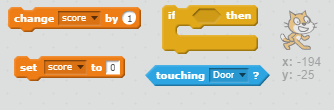
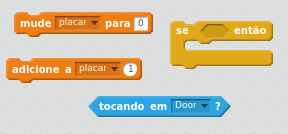
passo 7 texto e imagem parcialmente traduzidos e ajustes passo 6

diff --git a/pt-br/step_7.md b/pt-br/step_7.md
@@ -1,26 +1,26 @@
-## Getting to safety
+## Chegando em segurança
 
-The object of the game is to guide the cats to safety by creating a safe path for them to reach the door. Let's make a score variable to keep track of how many cats have successfully reached the door.
+O objetivo deste jogo é guiar os gatos para a segurança utilizando um caminho seguro para que eles cheguem a porta. Vamos criar uma variável de placar para manter a contagem de quantos gatos conseguram chegar a porta.
 
-+ Create a variable called `score`.
++ Criar uma variável chamada `placar`.
 
 [[[generic-scratch-add-variable]]]
 
-+ Add some code to your cat sprite to add one to the score each time a cat reaches the door. Don't forget to also set the score to zero at the start of the game.
++ Adicione algum código no seu ator Sprite1(gato) para adicionar um ao placar cada vez que um gato alcançar a porta. Não esqueça de também definir zero ao placar no inicio do jogo.
 
 --- hints ---
 --- hint ---
-`If` the cat is `touching the door sprite`, then `add 1 to the score`.
+`Se` o gato está `tocando o ator Door(porta)`, então `adicione 1 ao placar`.
 --- /hint ---
 
 --- hint ---
-Here are the new code blocks you'll need to add:
-![Score points hint](images/score-points-hint.png)
+Aqui estão os novos blocos de código que você precisará adicionar:
+![Dica placar de pontos](images/score-points-hint.png)
 --- /hint ---
 
 --- hint ---
 This is what your code should look like:
-![Score points solution](images/score-points-solution.png)
+![Solução placar de pontos](images/score-points-solution.png)
 --- /hint ---
 
 --- /hints ---

diff --git a/pt-br/step_6.md b/pt-br/step_6.md
@@ -4,7 +4,7 @@ Quando estiver testando o seu jogo, você deve notar que se você desenhar uma p
 
 ![Gatos andando através da plataforma](images/cat-walk-through-platform.png)
 
-+ No código do personagem gato, adicione um novo laço após o laço que faz o gato cair. Desta vez, o laço deve dizer ao gato para move para cima 2 unidades até que ele não esteja tocando o azul.
++ No código do ator Sprinte1(gato), adicione um novo laço após o laço que faz o gato cair. Desta vez, o laço deve dizer ao gato para move para cima 2 unidades até que ele não esteja tocando o azul.
 
 ![Adicione código aqui](images/add-code-here.png)
 
